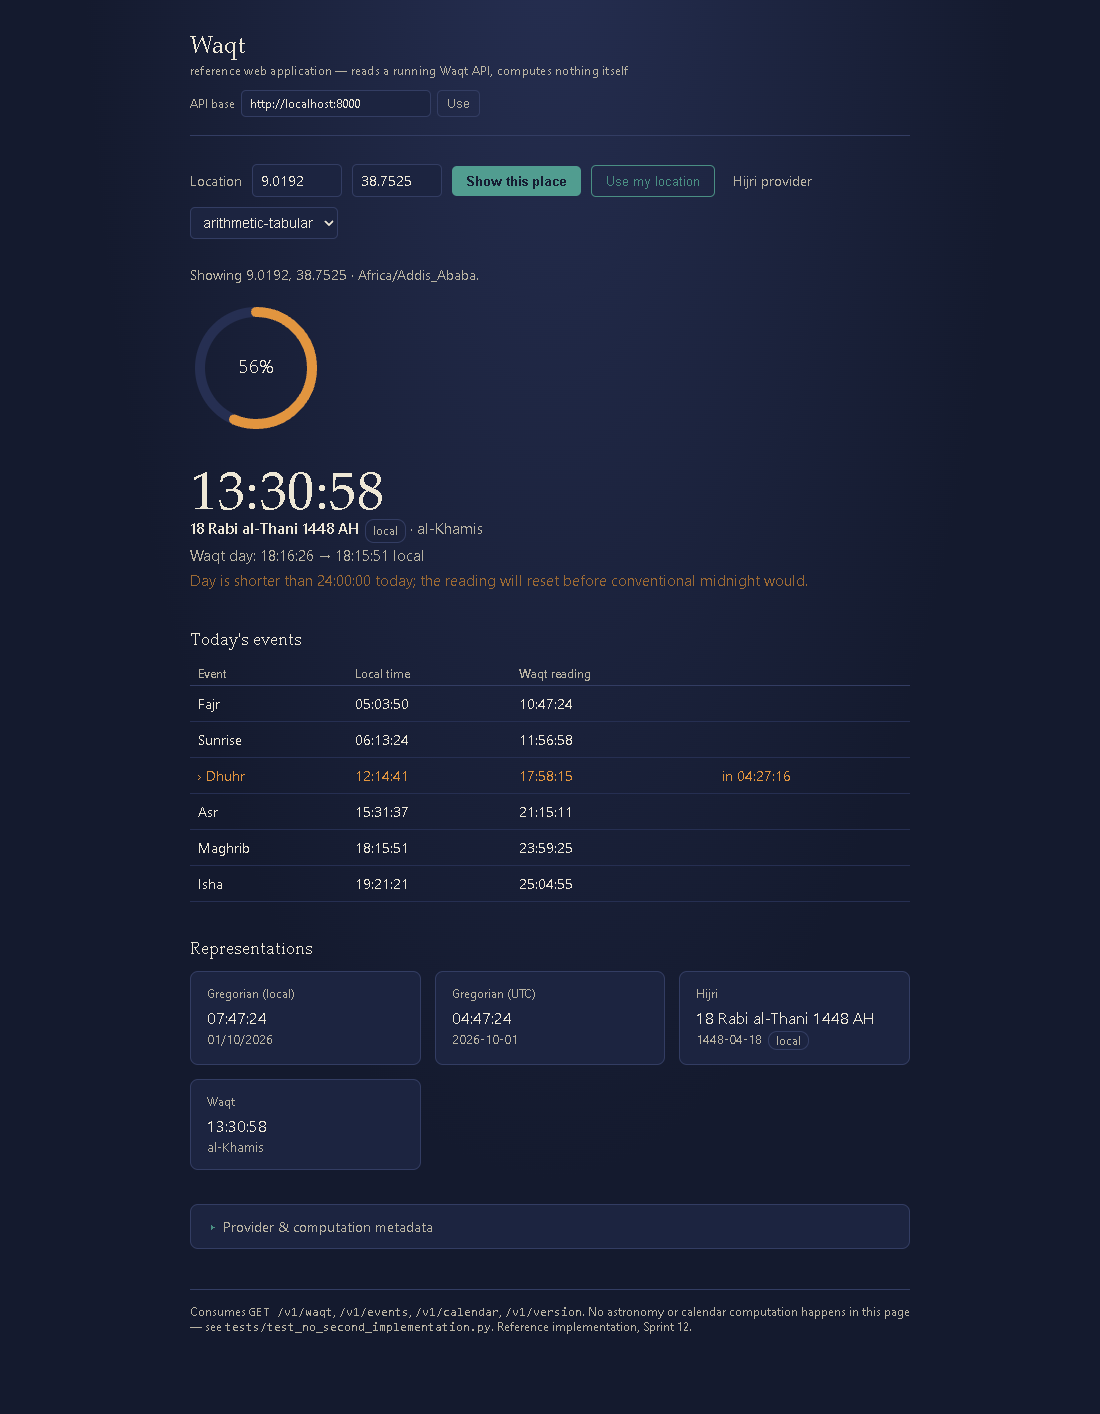
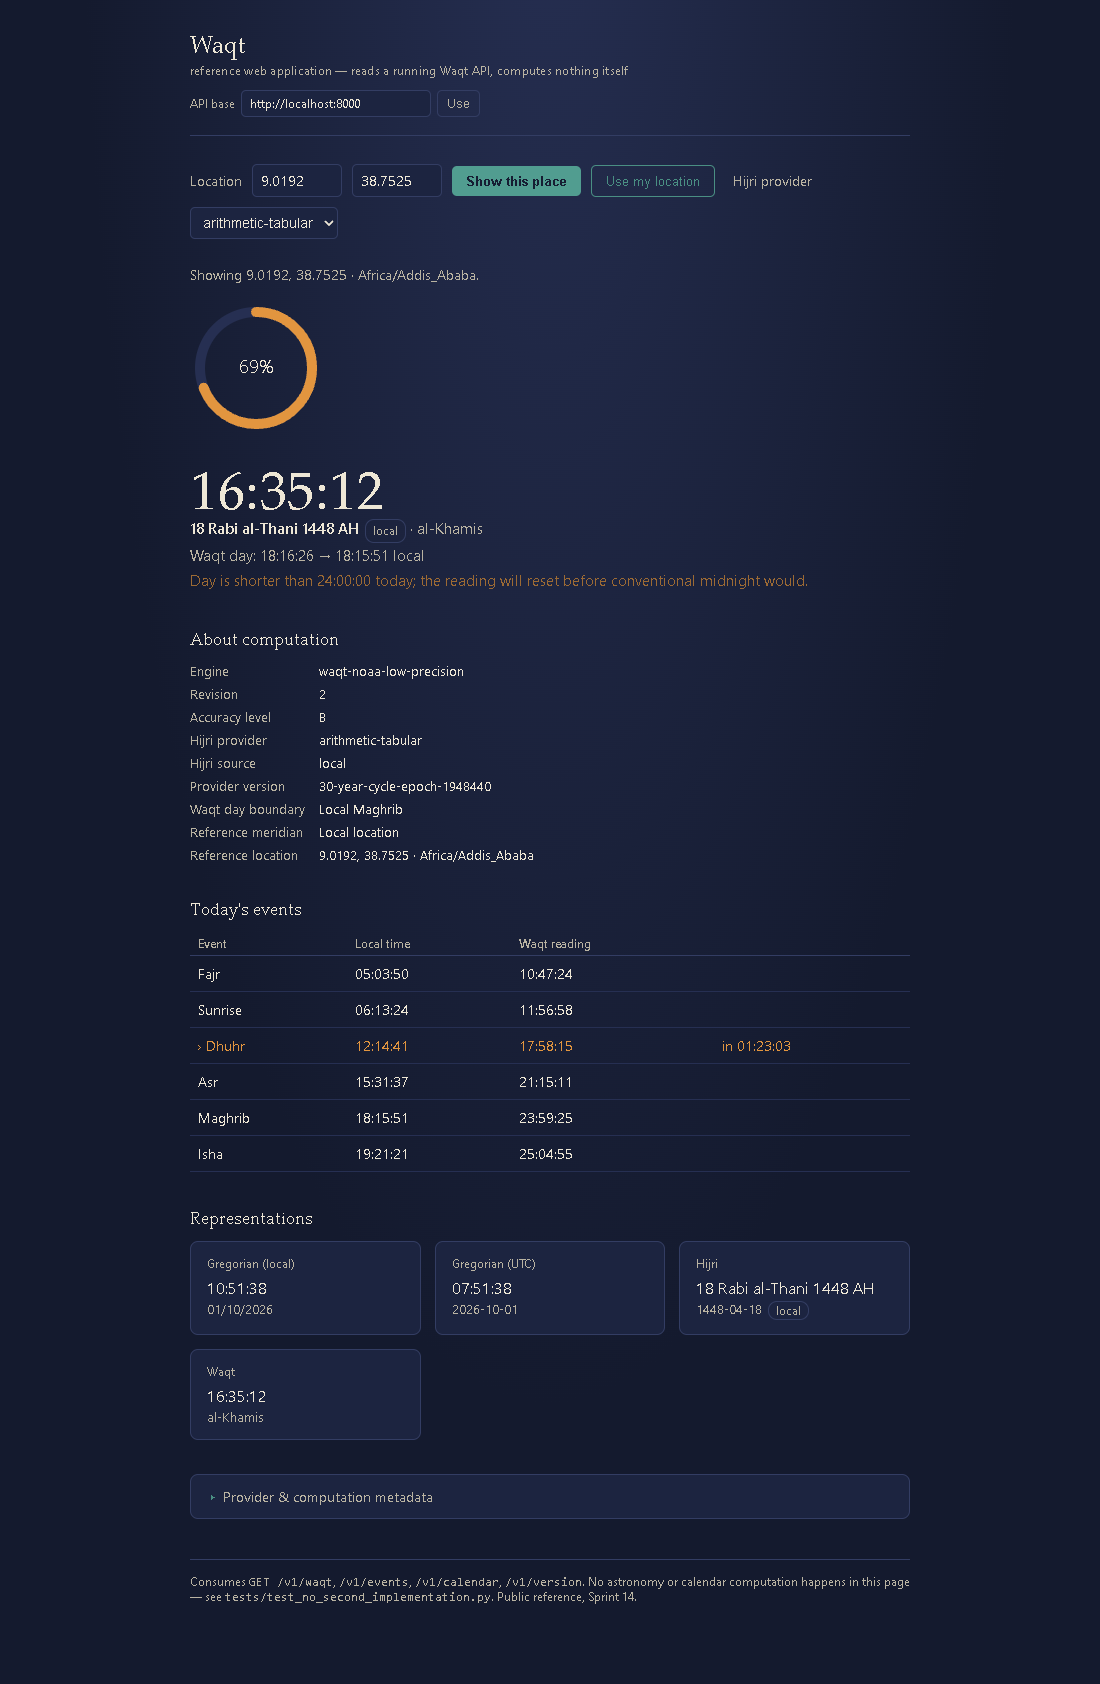
feat: Enhance health check and caching mechanisms, update API documentation, and improve browser verification tests

diff --git a/apps/web/index.html b/apps/web/index.html
@@ -99,15 +99,15 @@
     <h1>Waqt<small>reference web application — reads a running Waqt API, computes nothing itself</small></h1>
     <div class="apibase">
       <label for="apiBase">API base</label>
-      <input id="apiBase" value="http://localhost:8000" autocomplete="off" spellcheck="false">
+      <input id="apiBase" value="https://waqt-api-r6e0.onrender.com" autocomplete="off" spellcheck="false">
       <button id="apiBaseSave" type="button">Use</button>
     </div>
   </header>
 
   <div class="locbar">
     <span class="label">Location</span>
-    <input id="lat" placeholder="lat" inputmode="decimal">
-    <input id="lon" placeholder="lon" inputmode="decimal">
+    <input id="lat" value="21.4225" placeholder="lat" inputmode="decimal" aria-label="Latitude">
+    <input id="lon" value="39.8262" placeholder="lon" inputmode="decimal" aria-label="Longitude">
     <button id="goBtn" type="button">Show this place</button>
     <button id="geoBtn" type="button" class="secondary">Use my location</button>
     <label class="label" for="provider" style="margin-left:8px">Hijri provider</label>
@@ -129,6 +129,11 @@
         <div class="hero-sub" id="heroSub"></div>
       </div>
     </div>
+
+    <section aria-labelledby="computation-h">
+      <h2 id="computation-h">About computation</h2>
+      <dl class="meta-grid" id="computationGrid"></dl>
+    </section>
 
     <section aria-labelledby="events-h">
       <h2 id="events-h">Today's events</h2>
@@ -154,7 +159,7 @@
   <footer>
     Consumes <code>GET /v1/waqt</code>, <code>/v1/events</code>, <code>/v1/calendar</code>, <code>/v1/version</code>.
     No astronomy or calendar computation happens in this page — see
-    <code>tests/test_no_second_implementation.py</code>. Reference implementation, Sprint 12.
+    <code>tests/test_no_second_implementation.py</code>. Public reference, Sprint 14.
   </footer>
 </div>
 
@@ -168,9 +173,17 @@
 
 const $ = (id) => document.getElementById(id);
 const LS_KEY = "waqt:apiBase";
+const LOCAL_API_BASE = "http://localhost:8000";
+const PUBLIC_API_BASE = "https://waqt-api-r6e0.onrender.com";
+
+function defaultApiBase() {
+  const override = new URLSearchParams(location.search).get("api");
+  if (override) return override;
+  return ["localhost", "127.0.0.1", "[::1]"].includes(location.hostname) ? LOCAL_API_BASE : PUBLIC_API_BASE;
+}
 
 function apiBase() {
-  return ($("apiBase").value || "http://localhost:8000").replace(/\/+$/, "");
+  return ($("apiBase").value || defaultApiBase()).replace(/\/+$/, "");
 }
 
 function esc(v) {
@@ -311,6 +324,26 @@ function renderMeta(waqtData, versionData) {
     `<dt>${esc(k)}</dt><dd>${esc(v)}</dd>`).join("");
 }
 
+function renderComputation(waqt) {
+  const computation = waqt.computation || {};
+  const hijri = waqt.hijri;
+  const location = waqt.location || {};
+  const timezone = waqt.timezone ? waqt.timezone.name : "timezone unavailable";
+  const rows = [
+    ["Engine", computation.engine || "—"],
+    ["Revision", computation.revision || "—"],
+    ["Accuracy level", computation.accuracy_level || "—"],
+    ["Hijri provider", hijri && hijri.provider ? hijri.provider.name : "unavailable"],
+    ["Hijri source", hijri ? hijri.source : "unavailable"],
+    ["Provider version", hijri && hijri.provider ? hijri.provider.version : "—"],
+    ["Waqt day boundary", "Local Maghrib"],
+    ["Reference meridian", "Local location"],
+    ["Reference location", `${location.lat ?? "—"}, ${location.lon ?? "—"} · ${timezone}`],
+  ];
+  $("computationGrid").innerHTML = rows.map(([key, value]) =>
+    `<dt>${esc(key)}</dt><dd>${esc(value)}</dd>`).join("");
+}
+
 function renderReps(waqt) {
   const tz = waqt.timezone ? waqt.timezone.name : null;
   const cards = [
@@ -391,6 +424,7 @@ async function loadPlace(lat, lon, { silent = false } = {}) {
 
     renderEvents(waqt);
     renderReps(waqt);
+    renderComputation(waqt);
     renderMeta(waqt, version);
 
     $("content").hidden = false;
@@ -426,7 +460,7 @@ function useLocation() {
 
 function init() {
   const saved = localStorage.getItem(LS_KEY);
-  if (saved) $("apiBase").value = saved;
+  $("apiBase").value = saved || defaultApiBase();
   $("apiBaseSave").addEventListener("click", () => {
     localStorage.setItem(LS_KEY, apiBase());
     setStatus(`API base set to ${apiBase()}.`);
@@ -442,6 +476,7 @@ function init() {
     if (!Number.isNaN(lat) && !Number.isNaN(lon)) loadPlace(lat, lon);
   });
   loadProviders();
+  loadPlace(parseFloat($("lat").value), parseFloat($("lon").value));
   tickHandle = setInterval(tick, 1000);
 }
 

diff --git a/waqt/api/__init__.py b/waqt/api/__init__.py
@@ -20,7 +20,7 @@ from __future__ import annotations
 
 import os
 
-from fastapi import FastAPI, Request
+from fastapi import FastAPI, Request, Response
 from fastapi.middleware.cors import CORSMiddleware
 from fastapi.encoders import jsonable_encoder
 from fastapi.exceptions import RequestValidationError
@@ -128,15 +128,38 @@ def create_app(cors_origins=None, rate_limit=None, trust_proxy=None) -> FastAPI:
         return RedirectResponse(url="/docs")
 
     @application.get("/v1/health")
-    def health():
+    def health(response: Response):
         # Sprint 14: no network I/O here, ever. `integrations` is an in-memory snapshot
         # of the live Hijri provider's circuit/cache state, so a load balancer probing
         # this endpoint can never be slowed down (or rate limited) by an upstream outage.
         # Status stays "ok" while the astronomy engine can serve: a degraded Hijri
         # integration falls back locally and is reported here, not treated as downtime.
-        return {"status": "ok", "spec": "waqt-core/0.1", "api_version": API_VERSION,
-                "computation": computation_identity(),
-                "integrations": {"hijri_aladhan": aladhan_status()}}
+        response.headers["Cache-Control"] = "no-store"
+        computation = computation_identity()
+        integration = aladhan_status()
+        if not integration["enabled"]:
+            provider_health = "disabled"
+        elif integration["circuit"] == "open" or (
+            integration["last_failure"] and
+            (not integration["last_success"] or integration["last_failure"] > integration["last_success"])
+        ):
+            provider_health = "degraded"
+        elif integration["last_success"]:
+            provider_health = "available"
+        else:
+            provider_health = "unknown"
+        return {
+            "status": "ok",
+            "spec": "waqt-core/0.1",
+            "api_version": API_VERSION,
+            "computation": computation,
+            "components": {
+                "application": {"status": "available"},
+                "computation": {"status": "available", **computation},
+                "optional_providers": {"aladhan": {"status": provider_health}},
+            },
+            "integrations": {"hijri_aladhan": integration},
+        }
 
     return application
 

diff --git a/tests/test_sprint14_live_integrations.py b/tests/test_sprint14_live_integrations.py
@@ -364,6 +364,7 @@ def test_health_is_network_free_and_reports_integration_state(up):
     assert r.status_code == 200 and len(up.calls) == n
     b = r.json()
     assert b["status"] == "ok" and b["api_version"] == "1.5.0"
+    assert b["components"]["optional_providers"]["aladhan"]["status"] == "degraded"
     i = b["integrations"]["hijri_aladhan"]
     assert i["provider"] == "aladhan" and i["circuit"] == "open" and i["last_failure_reason"] == "network-error"
     assert i["enabled"] is True and i["fallback_provider"]
@@ -380,13 +381,27 @@ def test_health_does_not_construct_a_network_request_on_a_cold_provider():
 
 
 def test_version_reports_api_engine_and_integrations():
-    d = client.get("/v1/version").json()["data"]
+    response = client.get("/v1/version")
+    d = response.json()["data"]
+    assert response.headers["cache-control"] == "public, max-age=30"
     assert d["api_version"] == "1.5.0"
     assert d["integrations"]["affects_astronomy"] is False
     assert "aladhan" in d["integrations"]["calendar_providers"]
     a = d["integrations"]["hijri_aladhan"]
     assert a["provider"] == "aladhan" and a["version"].startswith("aladhan-gToH-v1") and a["cache_ttl_seconds"] == 43200
     assert str(d["engine"]["revision"]) == "2" if isinstance(d.get("engine"), dict) else True
+
+
+def test_cache_headers_respect_time_and_provider_semantics():
+    current = client.get("/v1/waqt", params={"lat": 9.0192, "lon": 38.7525})
+    fixed = client.get("/v1/waqt", params={
+        "lat": 9.0192, "lon": 38.7525, "instant": "2026-10-01T12:00:00Z",
+        "calendar_provider": "arithmetic-tabular",
+    })
+    catalog = client.get("/v1/calendar")
+    assert current.headers["cache-control"] == "no-store"
+    assert fixed.headers["cache-control"] == "private, max-age=30"
+    assert catalog.headers["cache-control"] == "public, max-age=300"
 
 
 def test_engine_identity_is_identical_in_health_version_and_every_waqt_response(up):

diff --git a/apps/web/tests/test_no_second_implementation.py b/apps/web/tests/test_no_second_implementation.py
@@ -103,3 +103,30 @@ def test_boundary_refresh_re_asks_the_server_and_never_computes_the_next_day():
     # nothing in the refresh path adds durations or builds a new instant client-side
     for bad in ("86400", "setDate(", "setHours(", "+ 24", "* 24"):
         assert bad not in tick and bad not in body, f"refresh path contains {bad!r}"
+
+
+def test_public_default_targets_render_and_localhost_stays_local():
+    html = PAGE.read_text()
+    script = _script()
+    assert 'const PUBLIC_API_BASE = "https://waqt-api-r6e0.onrender.com"' in script
+    assert 'const LOCAL_API_BASE = "http://localhost:8000"' in script
+    assert 'new URLSearchParams(location.search).get("api")' in script
+    assert 'value="https://waqt-api-r6e0.onrender.com"' in html
+    assert 'value="21.4225"' in html and 'value="39.8262"' in html
+    assert 'loadPlace(parseFloat($("lat").value), parseFloat($("lon").value))' in script
+
+
+def test_about_computation_panel_displays_server_provenance():
+    html = PAGE.read_text()
+    script = _script()
+    assert 'id="computationGrid"' in html
+    for field in ("computation.engine", "computation.revision", "computation.accuracy_level",
+                  "hijri.provider.name", "hijri.source", "hijri.provider.version", "Local Maghrib"):
+        assert field in script
+
+
+def test_render_blueprint_hosts_web_and_allowlists_its_origin():
+    blueprint = (PAGE.parents[2] / "render.yaml").read_text()
+    assert "name: waqt-web" in blueprint and "runtime: static" in blueprint
+    assert "name: waqt-api" in blueprint
+    assert "key: WAQT_CORS_ORIGINS" in blueprint and "sync: false" in blueprint

diff --git a/waqt/api/waqt_endpoint.py b/waqt/api/waqt_endpoint.py
@@ -18,7 +18,7 @@ from __future__ import annotations
 from typing import Optional
 from zoneinfo import ZoneInfo
 
-from fastapi import APIRouter, Query
+from fastapi import APIRouter, Query, Response
 
 from ..core import AstronomyProfile, Location, compute_waqt
 from ..timescale import DEFAULT_TIMESCALE_PROVIDER
@@ -59,6 +59,7 @@ def _hijri_repr(hd) -> Optional[dict]:
 
 @router.get("/v1/waqt")
 def get_waqt(
+    response: Response,
     lat: float = Query(..., ge=-90, le=90, description="Latitude, WGS84 degrees"),
     lon: float = Query(..., ge=-180, le=180, description="Longitude, WGS84 degrees"),
     elevation_m: float = Query(0.0, ge=0, description="Elevation, metres above sea level"),
@@ -83,6 +84,7 @@ def get_waqt(
     sighting_day: Optional[int] = Query(None, ge=1, le=30, description="local-observation provider: Hijri day (1-30)"),
     observed_at: Optional[str] = Query(None, description="local-observation provider: where the sighting was reported from"),
 ):
+    response.headers["Cache-Control"] = "private, max-age=30" if instant else "no-store"
     t = parse_instant(instant)
     provider = resolve_calendar_provider(
         calendar_provider, override_date,

diff --git a/waqt/api/version_endpoint.py b/waqt/api/version_endpoint.py
@@ -15,7 +15,7 @@ describe themselves differently. See docs/VERSIONING.md.
 
 from __future__ import annotations
 
-from fastapi import APIRouter
+from fastapi import APIRouter, Response
 from waqt_core.versioning import version_report
 
 from .common import API_VERSION, CORE_SPEC_VERSION, success
@@ -25,7 +25,8 @@ router = APIRouter()
 
 
 @router.get("/v1/version")
-def get_version():
+def get_version(response: Response):
+    response.headers["Cache-Control"] = "public, max-age=30"
     data = version_report(api_version=API_VERSION, spec_version=CORE_SPEC_VERSION)
     # Sprint 14: which *calendar* providers this server offers, and the identity of the one
     # that talks to the outside world. Added here, not in version_report, because it is a

diff --git a/tests/test_api.py b/tests/test_api.py
@@ -263,4 +263,11 @@ def test_conversions_bad_direction():
 def test_health_check():
     r = client.get("/v1/health")
     assert r.status_code == 200
-    assert r.json()["status"] == "ok"
+    body = r.json()
+    assert body["status"] == "ok"
+    assert body["components"]["application"]["status"] == "available"
+    assert body["components"]["computation"]["status"] == "available"
+    assert body["components"]["optional_providers"]["aladhan"]["status"] in {
+        "unknown", "available", "degraded", "disabled"
+    }
+    assert r.headers["cache-control"] == "no-store"

diff --git a/waqt/api/calendar_endpoint.py b/waqt/api/calendar_endpoint.py
@@ -9,7 +9,7 @@ provider picker without hardcoding the list from documentation.
 
 from __future__ import annotations
 
-from fastapi import APIRouter
+from fastapi import APIRouter, Response
 
 from .common import success
 from .providers import PROVIDER_CATALOG
@@ -18,7 +18,8 @@ router = APIRouter()
 
 
 @router.get("/v1/calendar")
-def get_calendar_providers():
+def get_calendar_providers(response: Response):
+    response.headers["Cache-Control"] = "public, max-age=300"
     data = {
         "providers": [
             {

diff --git a/docs/LIVE-INTEGRATIONS.md b/docs/LIVE-INTEGRATIONS.md
@@ -101,8 +101,11 @@ worker processes each keep their own budget. Rejections are ordinary envelopes (
 `X-RateLimit-Limit/Remaining/Reset`) and carry CORS headers so browser apps can read them.
 
 **`GET /v1/health`** never performs network I/O. It returns `status:"ok"` whenever the engine can serve, plus
-`integrations.hijri_aladhan` (circuit state, cache size, counters, last failure reason). A degraded integration is reported,
-not treated as downtime. **`GET /v1/version`** gains `integrations` (`calendar_providers`, the provider's identity,
+`components.application`, `components.computation`, and `components.optional_providers.aladhan` (`unknown`, `available`,
+`degraded`, or `disabled`) and `integrations.hijri_aladhan` (circuit state, cache size, counters, last failure reason).
+A degraded integration is reported, not treated as downtime. Health is `no-store`; `/v1/version` is cached for 30 seconds,
+the provider catalog for 5 minutes, and `/v1/waqt` only for explicit instants (private, 30 seconds). Current-time Waqt
+responses are `no-store`. **`GET /v1/version`** gains `integrations` (`calendar_providers`, the provider's identity,
 `affects_astronomy: false`).
 
 ## 3. What was and was not verified
@@ -111,9 +114,12 @@ Verified (no internet needed): provider behaviour with injected transports and a
 transport against a local fake AlAdhan on real sockets (`verification/fake_aladhan.py`); the API end to end over real HTTP
 (`verification/live_stack_check.py`); a real headless Chrome with CORS enforced (`verification/browser/run_sprint14.sh`).
 
-**Not verified: the real `api.aladhan.com`.** It was unreachable from the build environment. The response shape that is
-parsed comes from AlAdhan's public documentation and is exercised only against the fake. The 1900–2076 window is a
-conservative choice, not a documented AlAdhan limit. Run once against the real service before relying on it:
+**Live-service smoke check performed 2026-10-01:** the real `GET https://api.aladhan.com/v1/gToH/01-10-2026` returned
+HTTP 200 with Hijri `20-04-1448`, method `HJCoSA`. The project's default `AlAdhanHijriProvider` also returned
+`source=remote`, parsed that method, and reported an agreeing Umm al-Qura cross-check (`delta_days=0`) after one request.
+This verifies one live response shape and date only; it does not establish ongoing availability, behavior across all dates,
+or every optional calendar method. The build environment itself could not reach AlAdhan. The 1900–2076 window remains a
+conservative choice, not a documented AlAdhan limit. Repeat the check when deploying or changing the adapter:
 
 ```bash
 curl -s https://api.aladhan.com/v1/gToH/30-09-2026

diff --git a/apps/web/README.md b/apps/web/README.md
@@ -26,7 +26,8 @@ from the API's own static-file mount if you add one, or via a reverse proxy.
 ## What it shows
 
 - **Location**: browser geolocation (`navigator.geolocation`), or manual
-  lat/lon entry — the app makes no claim about location without one of these.
+  lat/lon entry. The first view uses a clearly labeled Makkah demo location;
+  it does not request geolocation without an explicit click.
 - **Local Waqt day**: Maghrib-to-Maghrib boundary and length, from `/v1/waqt`.
 - **Current Waqt clock**: the `HH:MM:SS` reading, live-ticking client-side
   between polls (interpolated from the last server reading + elapsed time —
@@ -43,7 +44,18 @@ from the API's own static-file mount if you add one, or via a reverse proxy.
 
 Stored in `localStorage` under `waqt:apiBase` (a per-browser UI preference,
 not Waqt state — nothing about a computation is cached across sessions).
-Defaults to `http://localhost:8000`; editable in the header.
+Localhost pages default to `http://localhost:8000`; public hosts default to
+`https://waqt-api-r6e0.onrender.com`. The header remains editable, and `?api=`
+can override the API base for a deployment or preview.
+
+## Render deployment
+
+The root `render.yaml` defines both the API and this static site. After the
+first Blueprint deployment, copy the static site's actual HTTPS URL from Render
+and set the API service's `WAQT_CORS_ORIGINS` to that exact origin in the Render
+Dashboard, then redeploy the API. Add any custom web domains as additional,
+comma-separated exact origins. CORS remains disabled until this is configured.
+The client targets the supplied public API URL.
 
 ## Tests
 

diff --git a/docs/API.md b/docs/API.md
@@ -145,6 +145,14 @@ and `/v1/version`, `network` / `single_date_only` per provider in `/v1/calendar`
 provider failing no longer fails `/v1/waqt`: `hijri` is `null` and `calendar_error` says why. Full contract, fallback reasons
 and operations: **docs/LIVE-INTEGRATIONS.md**.
 
+`GET /v1/health` remains `status:"ok"` when computation is available and reports separate `components.application`,
+`components.computation`, and `components.optional_providers.aladhan` states (`unknown`, `available`, `degraded`, or
+`disabled`). It performs no upstream request and returns `Cache-Control: no-store`. Cache policy is intentionally
+bounded: `/v1/version` for 30 seconds, `/v1/calendar` for 5 minutes, and `/v1/waqt` for 30 seconds in a private cache
+only when the request supplies an explicit `instant`; requests for the moving current time are `no-store`. The AlAdhan
+provider separately caches Hijri answers by Gregorian date and method for 12 hours. Other computation results are not
+shared-cached.
+
 ## 8. The one gotcha: which Gregorian date is "the" date
 
 The Islamic day runs Maghrib-to-Maghrib, and per the Core Time Model, the Hijri label attached to a Waqt day is **the Gregorian date the *closing* Maghrib falls on** — not the date you'd naively read off the instant you queried.

diff --git a/SPRINT-14-REPORT.md b/SPRINT-14-REPORT.md
@@ -31,7 +31,7 @@ pytest 9.1.1, headless Chrome 153. Sandbox clock: 2026-09-30/10-01.
 | independent-astronomy (JPL DE421 reference) | 36 | **36 passed** |
 | `verification/live_stack_check.py` (real uvicorn, real sockets) | 17/17 | **29/29** (12 new Sprint 14 checks) |
 | `verification/browser/run_sprint14.sh` (real Chrome, new) | — | **16/16** |
-| `verification/browser/run_smoke.mjs` (Sprint 13 browser suite) | 34/34 | **34/34** (3 stale expectations updated, §2) |
+| `verification/browser/run_smoke.mjs` (Sprint 13 browser suite) | 34/34 | **36/36** (3 stale expectations and 2 production-demo assertions updated) |
 | `verification/vector_additivity_check.py` (new) | — | **OK: 21/21 recorded responses preserved** |
 | `pip check` | — | no broken requirements |
 
